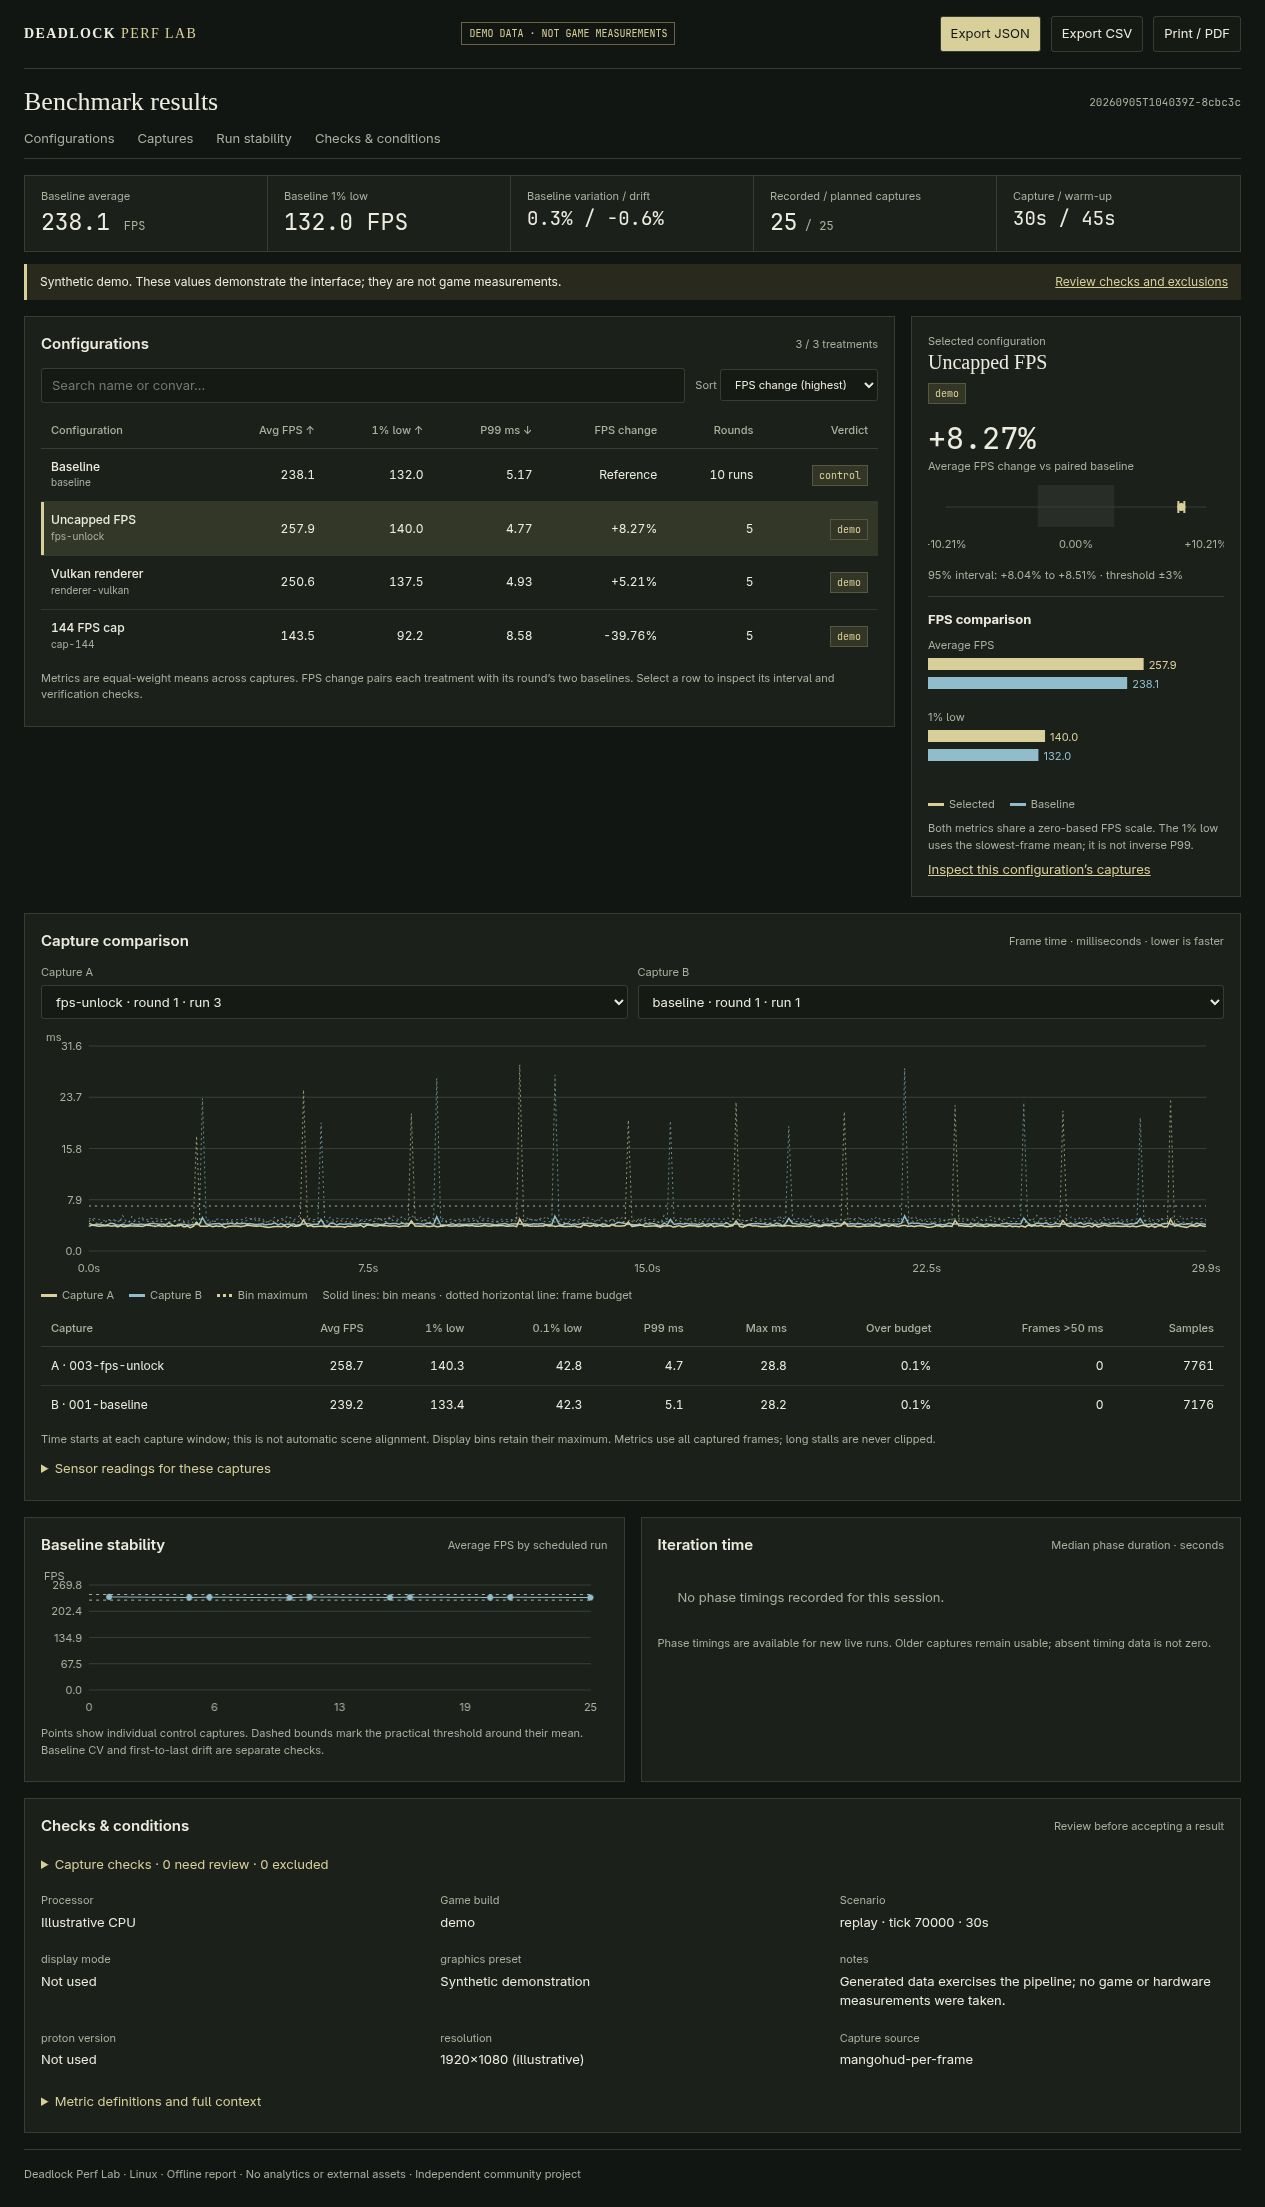
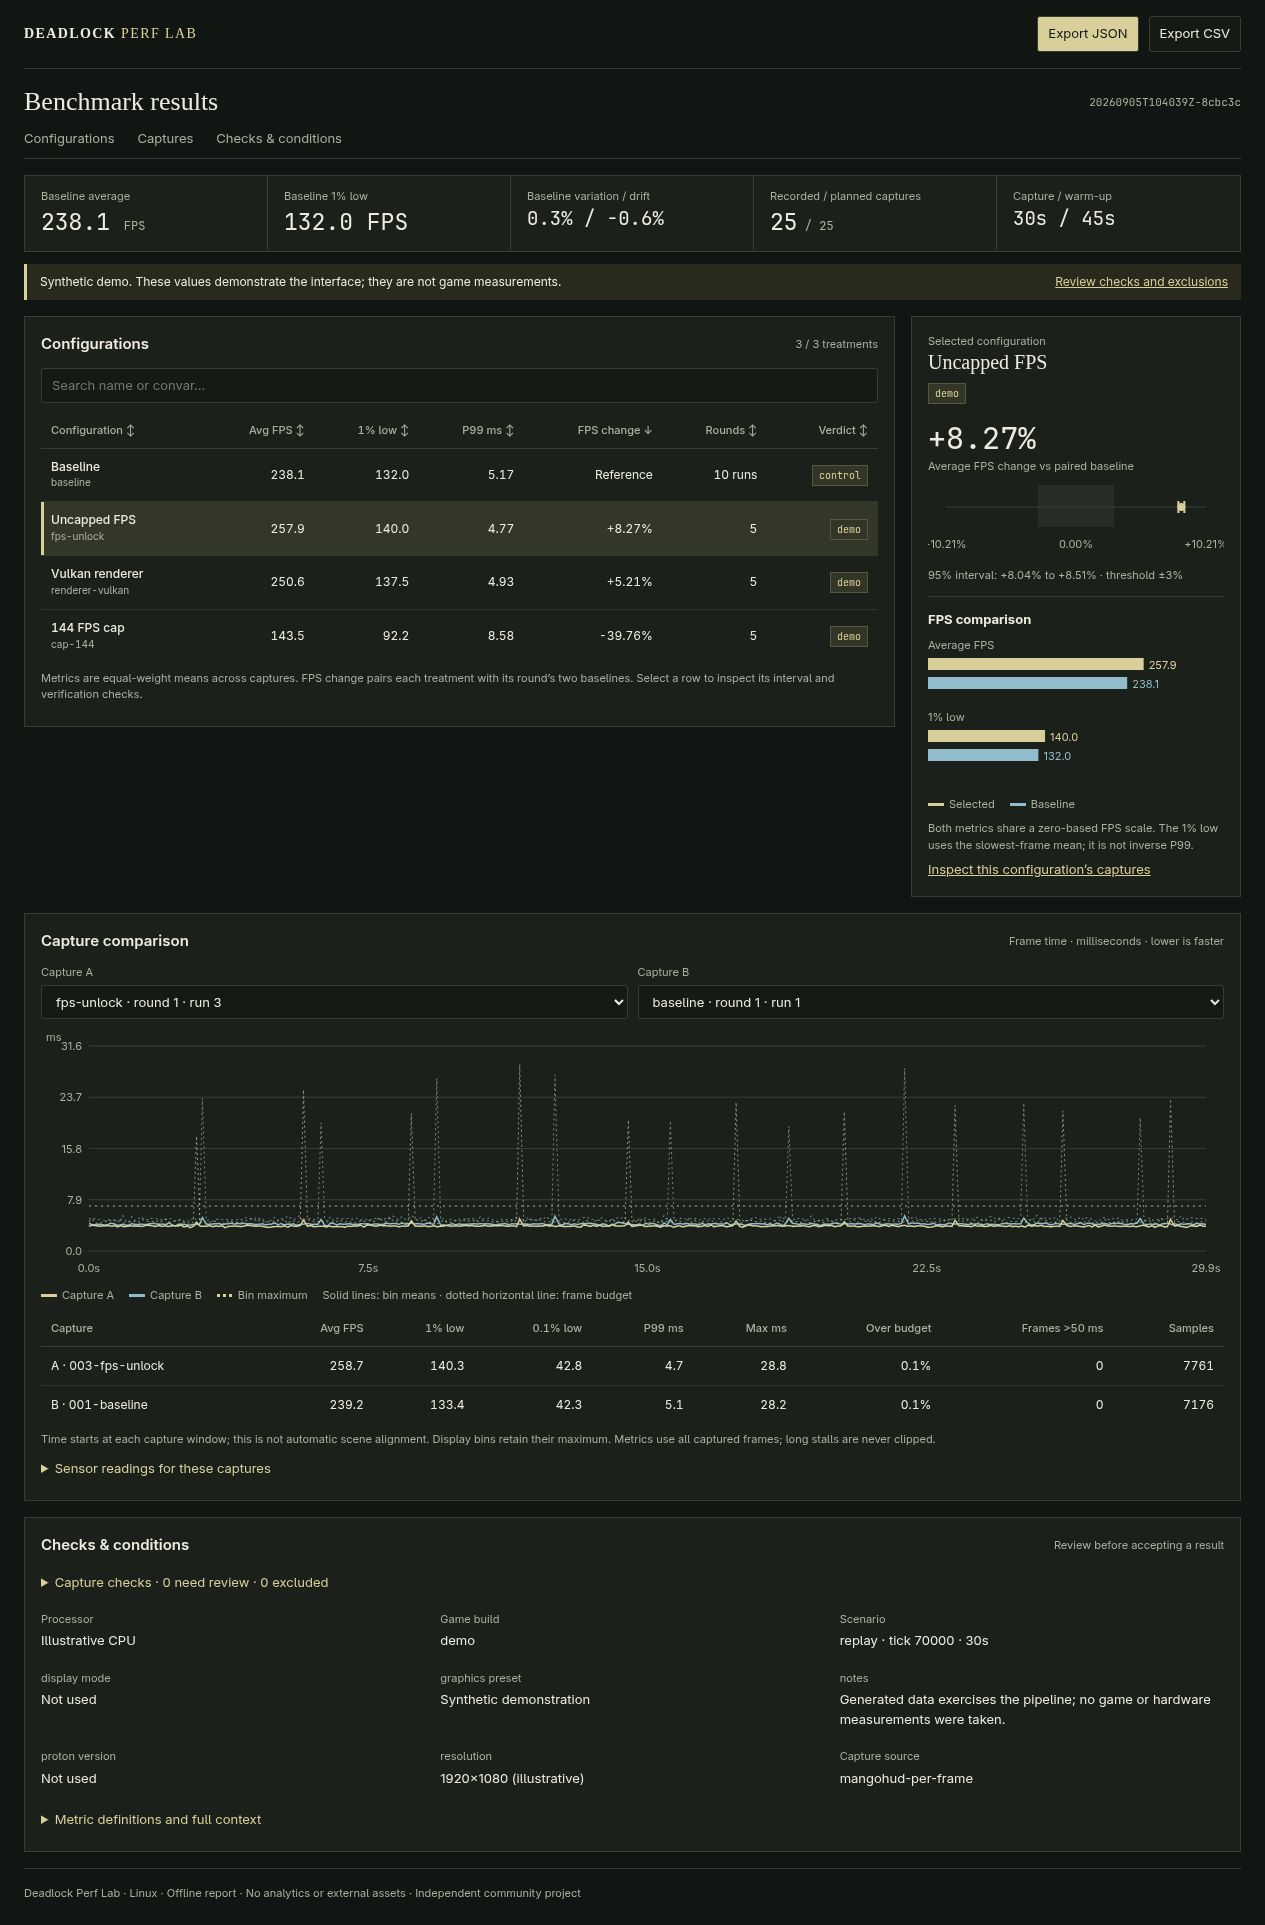
Simplify report and sort configurations through column headers

diff --git a/src/deadlock_perf_lab/assets/report.html b/src/deadlock_perf_lab/assets/report.html
@@ -549,11 +549,9 @@
     <div class="shell">
       <header class="top">
         <div class="brand">DEADLOCK <span>PERF LAB</span></div>
-        <span class="mode">__MODE__</span>
         <div class="actions">
           <button id="export">Export JSON</button
-          ><button id="export-csv">Export CSV</button
-          ><button id="print">Print / PDF</button>
+          ><button id="export-csv">Export CSV</button>
         </div>
       </header>
       <main>
@@ -563,7 +561,7 @@
         </div>
         <nav class="nav" aria-label="Report sections">
           <a href="#comparison">Configurations</a
-          ><a href="#captures">Captures</a><a href="#stability">Run stability</a
+          ><a href="#captures">Captures</a
           ><a href="#quality">Checks & conditions</a>
         </nav>
         <section class="overview" aria-label="Session summary">
@@ -604,16 +602,7 @@
                 type="search"
                 aria-label="Search configurations"
                 placeholder="Search name or convar…"
-              /><label class="small"
-                >Sort
-                <select id="sort" aria-label="Sort configurations">
-                  <option value="delta_pct">FPS change (highest)</option>
-                  <option value="avg_fps">Average FPS (highest)</option>
-                  <option value="low_1_fps">1% low (highest)</option>
-                  <option value="p99_frame_ms">P99 time (lowest)</option>
-                  <option value="name">Name A–Z</option>
-                </select></label
-              >
+              />
             </div>
             <div class="table-wrap">
               <table id="comparison-table">
@@ -623,13 +612,69 @@
                 </caption>
                 <thead>
                   <tr>
-                    <th>Configuration</th>
-                    <th>Avg FPS ↑</th>
-                    <th>1% low ↑</th>
-                    <th>P99 ms ↓</th>
-                    <th>FPS change</th>
-                    <th>Rounds</th>
-                    <th>Verdict</th>
+                    <th scope="col" aria-sort="none">
+                      <button
+                        type="button"
+                        data-sort="name"
+                        data-label="Configuration"
+                      >
+                        Configuration <span aria-hidden="true">↕</span>
+                      </button>
+                    </th>
+                    <th scope="col" aria-sort="none">
+                      <button
+                        type="button"
+                        data-sort="avg_fps"
+                        data-label="Avg FPS"
+                      >
+                        Avg FPS <span aria-hidden="true">↕</span>
+                      </button>
+                    </th>
+                    <th scope="col" aria-sort="none">
+                      <button
+                        type="button"
+                        data-sort="low_1_fps"
+                        data-label="1% low"
+                      >
+                        1% low <span aria-hidden="true">↕</span>
+                      </button>
+                    </th>
+                    <th scope="col" aria-sort="none">
+                      <button
+                        type="button"
+                        data-sort="p99_frame_ms"
+                        data-label="P99 ms"
+                      >
+                        P99 ms <span aria-hidden="true">↕</span>
+                      </button>
+                    </th>
+                    <th scope="col" aria-sort="none">
+                      <button
+                        type="button"
+                        data-sort="delta_pct"
+                        data-label="FPS change"
+                      >
+                        FPS change <span aria-hidden="true">↕</span>
+                      </button>
+                    </th>
+                    <th scope="col" aria-sort="none">
+                      <button
+                        type="button"
+                        data-sort="rounds"
+                        data-label="Rounds"
+                      >
+                        Rounds <span aria-hidden="true">↕</span>
+                      </button>
+                    </th>
+                    <th scope="col" aria-sort="none">
+                      <button
+                        type="button"
+                        data-sort="verdict"
+                        data-label="Verdict"
+                      >
+                        Verdict <span aria-hidden="true">↕</span>
+                      </button>
+                    </th>
                   </tr>
                 </thead>
                 <tbody id="comparison-rows">
@@ -771,36 +816,6 @@
             </p>
           </details>
         </section>
-        <div class="two">
-          <section id="stability" class="panel">
-            <div class="heading">
-              <h2>Baseline stability</h2>
-              <span class="small">Average FPS by scheduled run</span>
-            </div>
-            <canvas
-              id="history"
-              class="plot short-plot"
-              role="img"
-              aria-label="Baseline FPS over run order"
-            ></canvas>
-            <p class="small">
-              Points show individual control captures. Dashed bounds mark the
-              practical threshold around their mean. Baseline CV and
-              first-to-last drift are separate checks.
-            </p>
-          </section>
-          <section class="panel">
-            <div class="heading">
-              <h2>Iteration time</h2>
-              <span class="small">Median phase duration · seconds</span>
-            </div>
-            <div id="phase-summary"></div>
-            <p class="small">
-              Phase timings are available for new live runs. Older captures
-              remain usable; absent timing data is not zero.
-            </p>
-          </section>
-        </div>
         <section id="quality" class="panel">
           <div class="heading">
             <h2>Checks & conditions</h2>
@@ -865,14 +880,6 @@
         if (cls) e.className = cls;
         return e;
       };
-      const mean = (a) =>
-        a.length ? a.reduce((x, y) => x + y, 0) / a.length : null;
-      const median = (a) => {
-        if (!a.length) return null;
-        const s = [...a].sort((a, b) => a - b),
-          i = Math.floor(s.length / 2);
-        return s.length % 2 ? s[i] : (s[i - 1] + s[i]) / 2;
-      };
       function setup(id) {
         const c = $(id),
           r = c.getBoundingClientRect(),
@@ -903,19 +910,45 @@
         selected = 0,
         reference = -1,
         traceScale = null;
+      let sortKey = "delta_pct",
+        sortDirection = -1;
       function sortedRows() {
-        const q = $("search").value.toLowerCase(),
-          key = $("sort").value;
+        const q = $("search").value.toLowerCase();
+        const value = (r) =>
+          sortKey === "rounds"
+            ? r.paired_rounds.length
+            : ["name", "verdict", "delta_pct"].includes(sortKey)
+              ? r[sortKey]
+              : r.metrics?.[sortKey];
         return data.comparisons
           .filter((r) => (r.name + " " + r.case).toLowerCase().includes(q))
           .sort((a, b) => {
-            if (key === "name") return a.name.localeCompare(b.name);
-            const va = key === "delta_pct" ? a[key] : a.metrics?.[key],
-              vb = key === "delta_pct" ? b[key] : b.metrics?.[key];
+            const va = value(a),
+              vb = value(b);
             if (va == null) return vb == null ? 0 : 1;
             if (vb == null) return -1;
-            return key === "p99_frame_ms" ? va - vb : vb - va;
+            const order =
+              typeof va === "string" ? va.localeCompare(vb) : va - vb;
+            return sortDirection * order || a.case.localeCompare(b.case);
           });
+      }
+      function updateSortHeaders() {
+        document.querySelectorAll("[data-sort]").forEach((button) => {
+          const active = button.dataset.sort === sortKey;
+          button.parentElement.setAttribute(
+            "aria-sort",
+            active
+              ? sortDirection === 1
+                ? "ascending"
+                : "descending"
+              : "none",
+          );
+          button.querySelector("span").textContent = active
+            ? sortDirection === 1
+              ? "↑"
+              : "↓"
+            : "↕";
+        });
       }
       function table() {
         const rows = sortedRows();
@@ -1231,85 +1264,6 @@
           $("sensors").append(tr);
         }
       }
-      function history() {
-        const { ctx, w, h } = setup("history"),
-          runs = data.runs.filter((r) => r.case === "baseline");
-        if (!runs.length) {
-          empty(ctx, "No valid baseline captures.");
-          return;
-        }
-        const avg = mean(runs.map((r) => r.metrics.avg_fps)),
-          maxY =
-            Math.max(
-              ...runs.map((r) => r.metrics.avg_fps),
-              avg * (1 + data.threshold_pct / 100),
-            ) * 1.1,
-          maxX = Math.max(1, data.expected_runs),
-          { x, y } = axis(ctx, w, h, maxX, maxY, "");
-        ctx.strokeStyle = C.text;
-        ctx.setLineDash([3, 4]);
-        for (const v of [
-          avg * (1 - data.threshold_pct / 100),
-          avg * (1 + data.threshold_pct / 100),
-        ]) {
-          ctx.beginPath();
-          ctx.moveTo(x(0), y(v));
-          ctx.lineTo(x(maxX), y(v));
-          ctx.stroke();
-        }
-        ctx.setLineDash([]);
-        ctx.strokeStyle = C.b;
-        ctx.beginPath();
-        runs.forEach((r, i) =>
-          i
-            ? ctx.lineTo(x(r.index), y(r.metrics.avg_fps))
-            : ctx.moveTo(x(r.index), y(r.metrics.avg_fps)),
-        );
-        ctx.stroke();
-        ctx.fillStyle = C.b;
-        for (const r of runs) {
-          ctx.beginPath();
-          ctx.arc(x(r.index), y(r.metrics.avg_fps), 3, 0, 7);
-          ctx.fill();
-        }
-        ctx.fillStyle = C.text;
-        ctx.fillText("FPS", 3, 12);
-      }
-      function phases() {
-        const rows = data.runs.filter((r) => r.phase_timings_s),
-          container = $("phase-summary");
-        if (!rows.length) {
-          container.append(
-            make("p", "No phase timings recorded for this session.", "empty"),
-          );
-          return;
-        }
-        const t = make("table"),
-          body = make("tbody"),
-          keys = [
-            ...new Set(rows.flatMap((r) => Object.keys(r.phase_timings_s))),
-          ];
-        for (const k of keys) {
-          const tr = make("tr");
-          tr.append(
-            make("td", k.replaceAll("_", " ")),
-            make(
-              "td",
-              num(
-                median(
-                  rows
-                    .map((r) => r.phase_timings_s[k])
-                    .filter((v) => v != null),
-                ),
-                " s",
-              ),
-            ),
-          );
-          body.append(tr);
-        }
-        t.append(body);
-        container.append(t);
-      }
       $("reference-select").append(new Option("None", -1));
       data.runs.forEach((r, i) => {
         const label = `${r.case} · round ${r.round} · run ${r.index}`;
@@ -1325,7 +1279,21 @@
         trace();
       });
       $("search").addEventListener("input", table);
-      $("sort").addEventListener("change", table);
+      document.querySelectorAll("[data-sort]").forEach((button) =>
+        button.addEventListener("click", () => {
+          const key = button.dataset.sort;
+          sortDirection =
+            key === sortKey
+              ? -sortDirection
+              : ["name", "verdict", "p99_frame_ms"].includes(key)
+                ? 1
+                : -1;
+          sortKey = key;
+          updateSortHeaders();
+          table();
+        }),
+      );
+      updateSortHeaders();
       $("trace").addEventListener("mousemove", (e) => {
         if (!traceScale) return;
         const rect = e.currentTarget.getBoundingClientRect(),
@@ -1440,14 +1408,10 @@
           "deadlock-configurations.csv",
         );
       });
-      $("print").addEventListener("click", () => window.print());
-      phases();
       choose(chosen);
-      history();
       new ResizeObserver(() => {
         detail();
         trace();
-        history();
       }).observe(document.querySelector(".shell"));
     </script>
   </body>

diff --git a/src/deadlock_perf_lab/report.py b/src/deadlock_perf_lab/report.py
@@ -101,7 +101,6 @@ def generate_report(session: Path, threshold: float = 3) -> Path:
     page = files("deadlock_perf_lab").joinpath("assets/report.html").read_text()
     substitutions = {
         "__TITLE__": escape(result["session"]),
-        "__MODE__": "DEMO DATA · NOT GAME MEASUREMENTS" if result["synthetic"] else "LOCAL CAPTURE · EVIDENCE REPORT",
         "__FPS__": fmt(result["baseline"]["avg_fps"]),
         "__CV__": fmt(result["baseline"]["cv_pct"], "%"),
         "__DRIFT__": fmt(result["baseline"]["drift_pct"], "%", True),

diff --git a/docs/REPORT_DESIGN.md b/docs/REPORT_DESIGN.md
@@ -7,15 +7,15 @@ Reviewed 6 September 2026. These tools informed the report workflow; their scree
 | [CapFrameX features](https://www.capframex.com/features) | Metric sorting, capture comparisons, frame-time overlays, selectable records and run aggregation | A searchable configuration table, selectable metric sorting, linked capture selection and two traces on shared axes |
 | [Intel PresentMon](https://game.intel.com/ch/intel-presentmon/) | Performance timing alongside telemetry; multiple series and histograms | Capture timing and available sensor readings are adjacent. MangoHud GPU utilization is not labelled GPU Busy; unsupported metrics remain unavailable |
 | [NVIDIA FrameView guide](https://www.nvidia.com/content/dam/en-zz/Solutions/GeForce/technologies/frameview/FrameView_Beta_User_Guide.pdf) | Explicit distinctions between average and percentile timing metrics and their capture points | Average FPS, slowest-frame-mean 1% low and P99 milliseconds have separate labels and definitions. No rendered/displayed latency claims are inferred from MangoHud |
-| [Phoronix Test Suite features](https://www.phoronix-test-suite.com/index.php?k=features) | Repeated tests, variability checks and additional trials when variation is excessive | Baseline run history, confidence intervals and verification reasons remain visible. Screening rankings require a separate confirmation experiment |
+| [Phoronix Test Suite features](https://www.phoronix-test-suite.com/index.php?k=features) | Repeated tests, variability checks and additional trials when variation is excessive | Baseline variation, confidence intervals and verification reasons remain available. Screening rankings require a separate confirmation experiment |
 
 ## Reading the report
 
 1. Check recorded/planned capture counts and the review notice. A positive value is not automatically a verified improvement.
-2. Search or sort configurations. The baseline remains at the top. Rows show average FPS, 1% low, P99 frame time, paired FPS change, complete paired rounds and verdict.
+2. Search configurations or click a column header to sort in either direction. The baseline remains at the top. Rows show average FPS, 1% low, P99 frame time, paired FPS change, complete paired rounds and verdict.
 3. Select a configuration. Its panel shows the paired effect, 95% interval when available, practical threshold and reasons a verdict is withheld. FPS bars use a common zero-based scale.
 4. Compare an individual capture with a baseline from the same round. Both traces share axes. Time zero is the start of each capture, not proof that scenes align. Dashed peaks retain the largest frame in each display bin.
-5. Inspect baseline stability, iteration phases, excluded runs, sensor readings and recorded conditions before sharing.
+5. Inspect excluded runs, sensor readings and recorded conditions before sharing. Iteration timings remain available through `dpl timings`.
 
 Configuration metrics are equal-weight means of per-capture metrics, not metrics from concatenated frames. Every required capture must support a tail metric for its aggregate to be displayed. Missing values are shown as a dash. Counts are integers. The JSON and CSV exports retain numerical precision.
 

diff --git a/README.md b/README.md
@@ -98,7 +98,7 @@ See the [manual experiment walkthrough](docs/MANUAL_EXPERIMENTS.md). Imported fi
 
 ## Inspect the results
 
-Search and sort the configuration table by FPS change, average FPS, 1% low or P99 frame time. Select a row to inspect its confidence interval and compare its capture with a baseline from the same round. Frame-time peaks, sensor readings, baseline history and verification checks remain available below. See [report design and references](docs/REPORT_DESIGN.md).
+Search configurations and click any column header to sort; click again to reverse the order. Select a row to inspect its confidence interval and compare its capture with a baseline from the same round. Frame-time peaks, sensor readings and verification checks remain available below. See [report design and references](docs/REPORT_DESIGN.md).
 
 ## Share the evidence
 

diff --git a/CHANGELOG.md b/CHANGELOG.md
@@ -1,5 +1,11 @@
 # Changelog
 
+## Unreleased
+
+- Removed the report header badge, baseline-history panel, iteration-time panel and Print/PDF button.
+- Replaced the sort dropdown with reversible sorting on every configuration column.
+
+
 ## 0.2.0 — 2026-09-06
 
 - Rebuilt results around a searchable, sortable configuration table with average FPS, 1% low, P99 time and paired effects.
